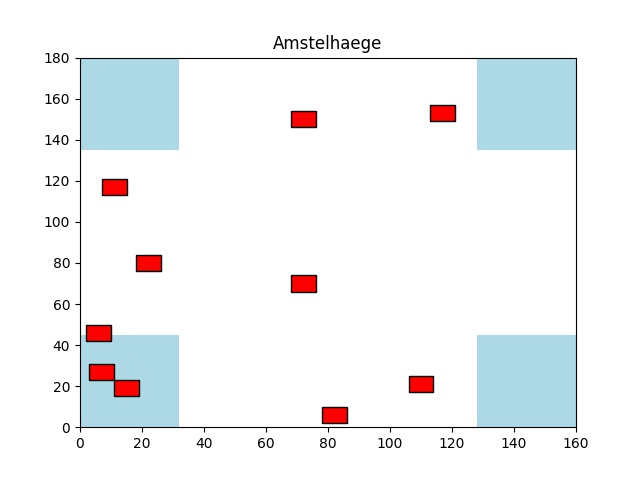
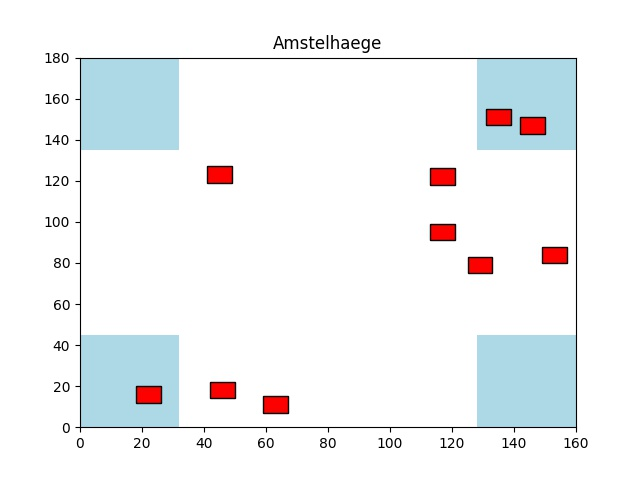
breedte en diepte omgewisseld

diff --git a/code/classes/House.py b/code/classes/House.py
@@ -18,14 +18,14 @@ class House():
             self.value = 285000
             self.free_area = 2
         elif self.house_type == 2:
-            self.length = 7
-            self.width = 11
+            self.length = 11
+            self.width = 7
             self.increase_value = 0.04
             self.value = 399000
             self.free_area = 3
         elif self.house_type == 3:
-            self.length = 10
-            self.width = 12
+            self.length = 12
+            self.width = 10
             self.increase_value = 0.06
             self.value = 610000
             self.free_area = 6
@@ -37,15 +37,15 @@ class House():
             check = True
         
         # check corner 2 (bottom right)
-        elif self.x_top_right + self.free_area == 180 or self.y_bottom_left - self.free_area == 0:
+        elif self.x_top_right + self.free_area == 160 or self.y_bottom_left - self.free_area == 0:
             check = True
         
         # check corner 3 (top right)
-        elif self.x_top_right + self.free_area == 180 or self.y_top_right + self.free_area == 160:
+        elif self.x_top_right + self.free_area == 160 or self.y_top_right + self.free_area == 180:
             check = True
 
         # check corner 4 (top left)
-        elif self.x_bottom_left - self.free_area == 0 or self.y_top_right + self.free_area == 160:
+        elif self.x_bottom_left - self.free_area == 0 or self.y_top_right + self.free_area == 180:
             check = True
 
         return check

diff --git a/code/classes/Amstelhaege.py b/code/classes/Amstelhaege.py
@@ -9,8 +9,8 @@ class Amstelhaege():
     """
     def __init__(self):
         # self.neighbourhood = []
-        self.length = 160
-        self.width = 180
+        self.length = 180
+        self.width = 160
 
         self.fraction_house_1 = 0.6
         self.fraction_house_2 = 0.25
